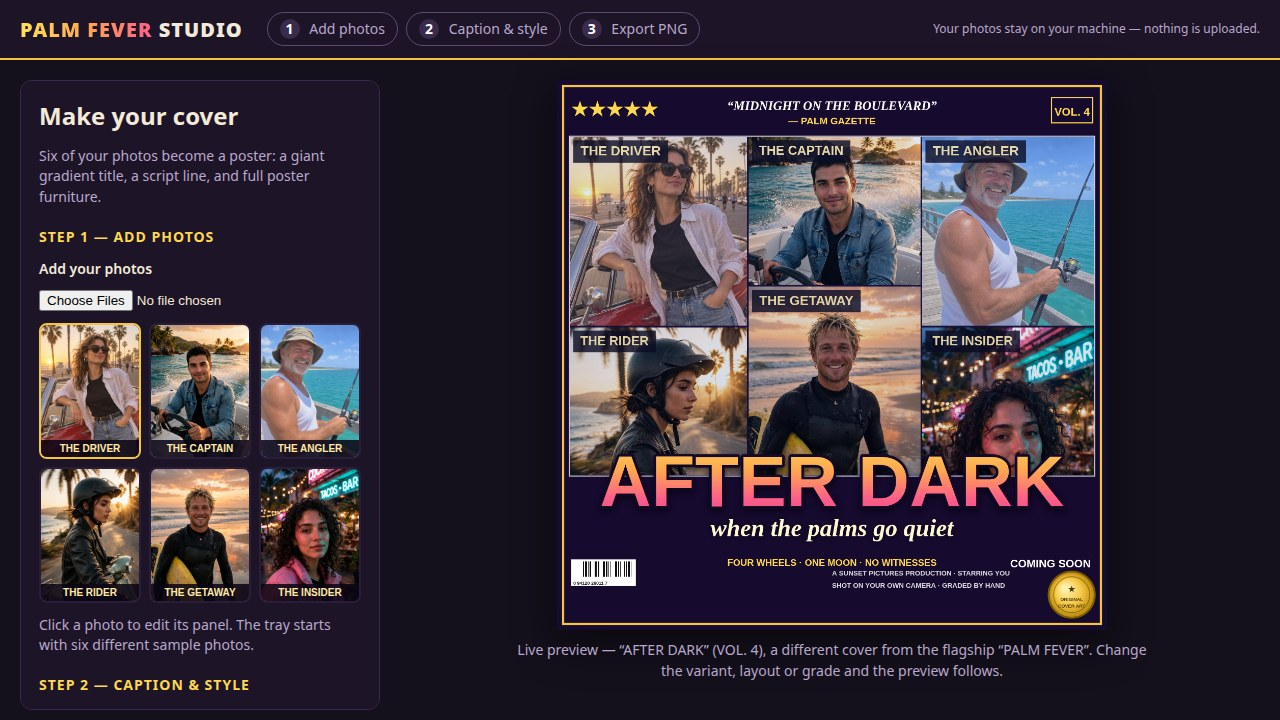
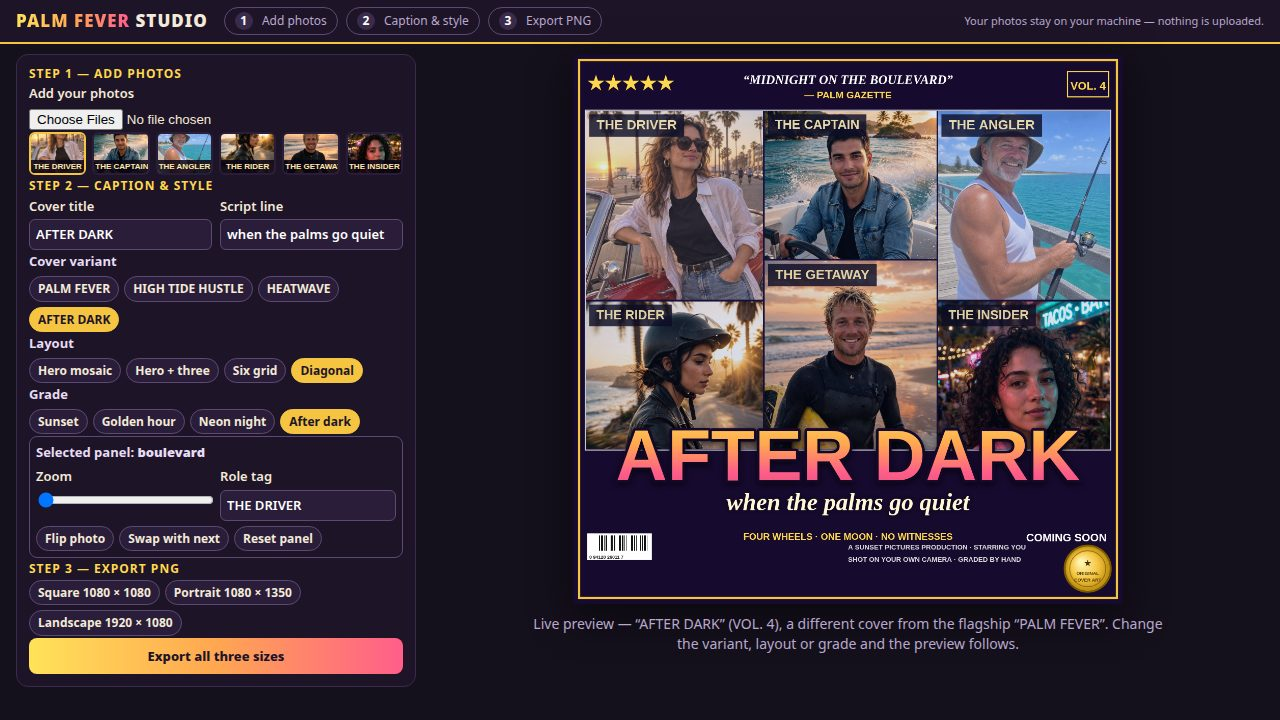
v11 editor: fit all 3 wizard steps + export in the 1280x720 shot
Compact the editor panel so the 1280x720 editor screenshot shows Step 1,
Step 2, Step 3 and the export buttons without scrolling (was: Step 2 bottom
and Step 3 below the fold, export button invisible):
- tray 3x2 tall thumbs -> 6-in-a-row 4/3 thumbs, all six photos visible
- Cover title + Script line side by side; Zoom + Role tag side by side
- smaller chips/topbar/padding; drop redundant panel h1/lede/hint
- verified in headless Chromium: controls scrollHeight == clientHeight
  (0px overflow), export-all button at y 638-674 of 720
Covers, photos, titles, grades and app logic untouched; screenshots
regenerated (cover pixels unchanged, JPEG re-encode only).

diff --git a/app/style.css b/app/style.css
@@ -1,39 +1,40 @@
 html, body { margin: 0; min-height: 100%; background: #14101c; color: #f4ead8; font: 14px/1.45 system-ui, sans-serif; }
-.topbar { display: flex; align-items: center; gap: 24px; padding: 12px 20px; background: #1e1428; border-bottom: 2px solid #f5c542; flex-wrap: wrap; }
-.brand { font-size: 20px; font-weight: 900; letter-spacing: 1px; }
+.topbar { display: flex; align-items: center; gap: 16px; padding: 7px 16px; background: #1e1428; border-bottom: 2px solid #f5c542; flex-wrap: wrap; }
+.brand { font-size: 17px; font-weight: 900; letter-spacing: 1px; }
 .brand .palm { background: linear-gradient(90deg, #ffe259, #ffa751, #ff5e8a); -webkit-background-clip: text; background-clip: text; color: transparent; }
-.steps { display: flex; gap: 8px; list-style: none; margin: 0; padding: 0; }
-.steps .step { padding: 6px 12px; border: 1px solid #5c4a72; border-radius: 20px; color: #b8a8cc; }
-.steps .step b { display: inline-block; width: 20px; height: 20px; line-height: 20px; text-align: center; border-radius: 50%; background: #3a2b4d; color: #fff; margin-right: 6px; }
+.steps { display: flex; gap: 8px; list-style: none; margin: 0; padding: 0; font-size: 12px; }
+.steps .step { padding: 4px 10px; border: 1px solid #5c4a72; border-radius: 20px; color: #b8a8cc; }
+.steps .step b { display: inline-block; width: 18px; height: 18px; line-height: 18px; text-align: center; border-radius: 50%; background: #3a2b4d; color: #fff; margin-right: 6px; }
 .steps .step.now { border-color: #f5c542; color: #ffe9a8; }
 .steps .step.now b { background: #f5c542; color: #1e1428; }
 .steps .step.done { border-color: #7ee081; color: #c9f2cb; }
 .steps .step.done b { background: #7ee081; color: #1e1428; }
-.topnote { margin-left: auto; color: #b8a8cc; font-size: 12px; }
-.app { display: flex; gap: 24px; padding: 20px; box-sizing: border-box; align-items: flex-start; }
-.controls { width: 360px; flex: none; display: flex; flex-direction: column; gap: 12px; background: #1e1428; border: 1px solid #3a2b4d; border-radius: 12px; padding: 18px; box-sizing: border-box; max-height: calc(100vh - 90px); overflow-y: auto; }
-.controls h1 { margin: 0; font-size: 24px; }
-.controls h2 { margin: 8px 0 0; font-size: 14px; color: #ffd94d; text-transform: uppercase; letter-spacing: 1px; }
-.lede, .hint { margin: 0; color: #b8a8cc; }
-label { display: flex; flex-direction: column; gap: 6px; font-weight: 600; }
-input[type=text] { font: inherit; padding: 9px; border: 1px solid #5c4a72; border-radius: 6px; background: #2a1d3a; color: #fff; }
+.topnote { margin-left: auto; color: #b8a8cc; font-size: 11px; }
+.app { display: flex; gap: 16px; padding: 10px 16px; box-sizing: border-box; align-items: flex-start; }
+.controls { width: 400px; flex: none; display: flex; flex-direction: column; gap: 2px; background: #1e1428; border: 1px solid #3a2b4d; border-radius: 12px; padding: 10px 12px; box-sizing: border-box; max-height: calc(100vh - 62px); overflow-y: auto; font-size: 13px; }
+.controls h2 { margin: 0; font-size: 12px; color: #ffd94d; text-transform: uppercase; letter-spacing: 1px; }
+.hint { margin: 0; color: #b8a8cc; font-size: 12px; }
+.fieldrow { display: grid; grid-template-columns: 1fr 1fr; gap: 8px; }
+.fieldrow label { min-width: 0; }
+label { display: flex; flex-direction: column; gap: 4px; font-weight: 600; }
+input[type=text] { font: inherit; padding: 5px 6px; border: 1px solid #5c4a72; border-radius: 6px; background: #2a1d3a; color: #fff; }
 input[type=range] { width: 100%; }
 .filelabel { cursor: pointer; }
-.filelabel input { margin-top: 4px; }
-.tray { display: grid; grid-template-columns: repeat(3, 1fr); gap: 8px; }
-.thumb { position: relative; padding: 0; border: 2px solid transparent; border-radius: 8px; overflow: hidden; cursor: pointer; background: #2a1d3a; aspect-ratio: 3/4; }
+.filelabel input { margin-top: 2px; }
+.tray { display: grid; grid-template-columns: repeat(6, 1fr); gap: 6px; }
+.thumb { position: relative; padding: 0; border: 2px solid transparent; border-radius: 6px; overflow: hidden; cursor: pointer; background: #2a1d3a; aspect-ratio: 4/3; }
 .thumb img { width: 100%; height: 100%; object-fit: cover; display: block; }
-.thumb span { position: absolute; left: 0; right: 0; bottom: 0; background: rgba(10, 5, 20, 0.85); color: #ffe9a8; font-size: 10px; font-weight: 800; padding: 3px 4px; text-align: center; }
+.thumb span { position: absolute; left: 0; right: 0; bottom: 0; background: rgba(10, 5, 20, 0.85); color: #ffe9a8; font-size: 8px; font-weight: 800; padding: 2px 1px; text-align: center; white-space: nowrap; }
 .thumb.selected { border-color: #f5c542; }
-.group { display: flex; flex-direction: column; gap: 8px; }
+.group { display: flex; flex-direction: column; gap: 5px; }
 .grouplabel { font-weight: 700; color: #e8dcf5; }
-.chips { display: flex; flex-wrap: wrap; gap: 8px; }
-.chips button { font: inherit; font-weight: 700; padding: 8px 12px; border: 1px solid #5c4a72; border-radius: 20px; background: #2a1d3a; color: #f4ead8; cursor: pointer; }
+.chips { display: flex; flex-wrap: wrap; gap: 5px; }
+.chips button { font: inherit; font-size: 12px; font-weight: 700; padding: 3px 8px; border: 1px solid #5c4a72; border-radius: 20px; background: #2a1d3a; color: #f4ead8; cursor: pointer; }
 .chips button:hover { border-color: #f5c542; }
 .chips button.active { background: #f5c542; color: #1e1428; border-color: #f5c542; }
-.panelbox { border: 1px solid #5c4a72; border-radius: 8px; padding: 12px; }
-button.primary { font: inherit; font-weight: 800; padding: 12px; border: 0; border-radius: 8px; background: linear-gradient(90deg, #ffe259, #ffa751, #ff5e8a); color: #1e1428; cursor: pointer; }
-#status { margin: 0; color: #7ee081; min-height: 1.2em; }
+.panelbox { border: 1px solid #5c4a72; border-radius: 8px; padding: 6px; }
+button.primary { font: inherit; font-weight: 800; padding: 9px; border: 0; border-radius: 8px; background: linear-gradient(90deg, #ffe259, #ffa751, #ff5e8a); color: #1e1428; cursor: pointer; }
+#status { margin: 0; color: #7ee081; min-height: 0; font-size: 12px; }
 .preview { flex: 1; display: flex; flex-direction: column; align-items: center; gap: 10px; min-width: 0; }
 .preview canvas { width: min(100%, calc(100vh - 170px)); height: auto; max-height: calc(100vh - 170px); box-shadow: 0 12px 40px rgba(0, 0, 0, 0.5); border-radius: 4px; }
 #previewNote { margin: 0; color: #b8a8cc; text-align: center; max-width: 640px; }

diff --git a/app/index.html b/app/index.html
@@ -18,19 +18,17 @@
 </header>
 <main class="app">
   <section class="controls" aria-label="Cover editor controls">
-    <h1>Make your cover</h1>
-    <p class="lede">Six of your photos become a poster: a giant gradient title, a script line, and full poster furniture.</p>
-
     <h2>Step 1 — Add photos</h2>
     <label class="filelabel">Add your photos
       <input id="photo" type="file" accept="image/*" multiple>
     </label>
     <div id="tray" class="tray" aria-label="Photo tray"></div>
-    <p class="hint">Click a photo to edit its panel. The tray starts with six different sample photos.</p>
 
     <h2>Step 2 — Caption &amp; style</h2>
-    <label>Cover title <input id="title" type="text" maxlength="24" value="AFTER DARK"></label>
-    <label>Script line <input id="script" type="text" maxlength="48" value="when the palms go quiet"></label>
+    <div class="fieldrow">
+      <label>Cover title <input id="title" type="text" maxlength="24" value="AFTER DARK"></label>
+      <label>Script line <input id="script" type="text" maxlength="48" value="when the palms go quiet"></label>
+    </div>
     <div class="group" aria-label="Cover variant">
       <span class="grouplabel">Cover variant</span>
       <div class="chips">
@@ -60,8 +58,10 @@
     </div>
     <div class="group panelbox" aria-label="Selected panel controls">
       <span class="grouplabel">Selected panel: <b id="panelName">boulevard</b></span>
-      <label>Zoom <input id="zoom" type="range" min="1" max="2.5" step="0.05" value="1"></label>
-      <label>Role tag <input id="role" type="text" maxlength="16" value="THE DRIVER"></label>
+      <div class="fieldrow">
+        <label>Zoom <input id="zoom" type="range" min="1" max="2.5" step="0.05" value="1"></label>
+        <label>Role tag <input id="role" type="text" maxlength="16" value="THE DRIVER"></label>
+      </div>
       <div class="chips">
         <button type="button" id="flip">Flip photo</button>
         <button type="button" id="swap">Swap with next</button>
